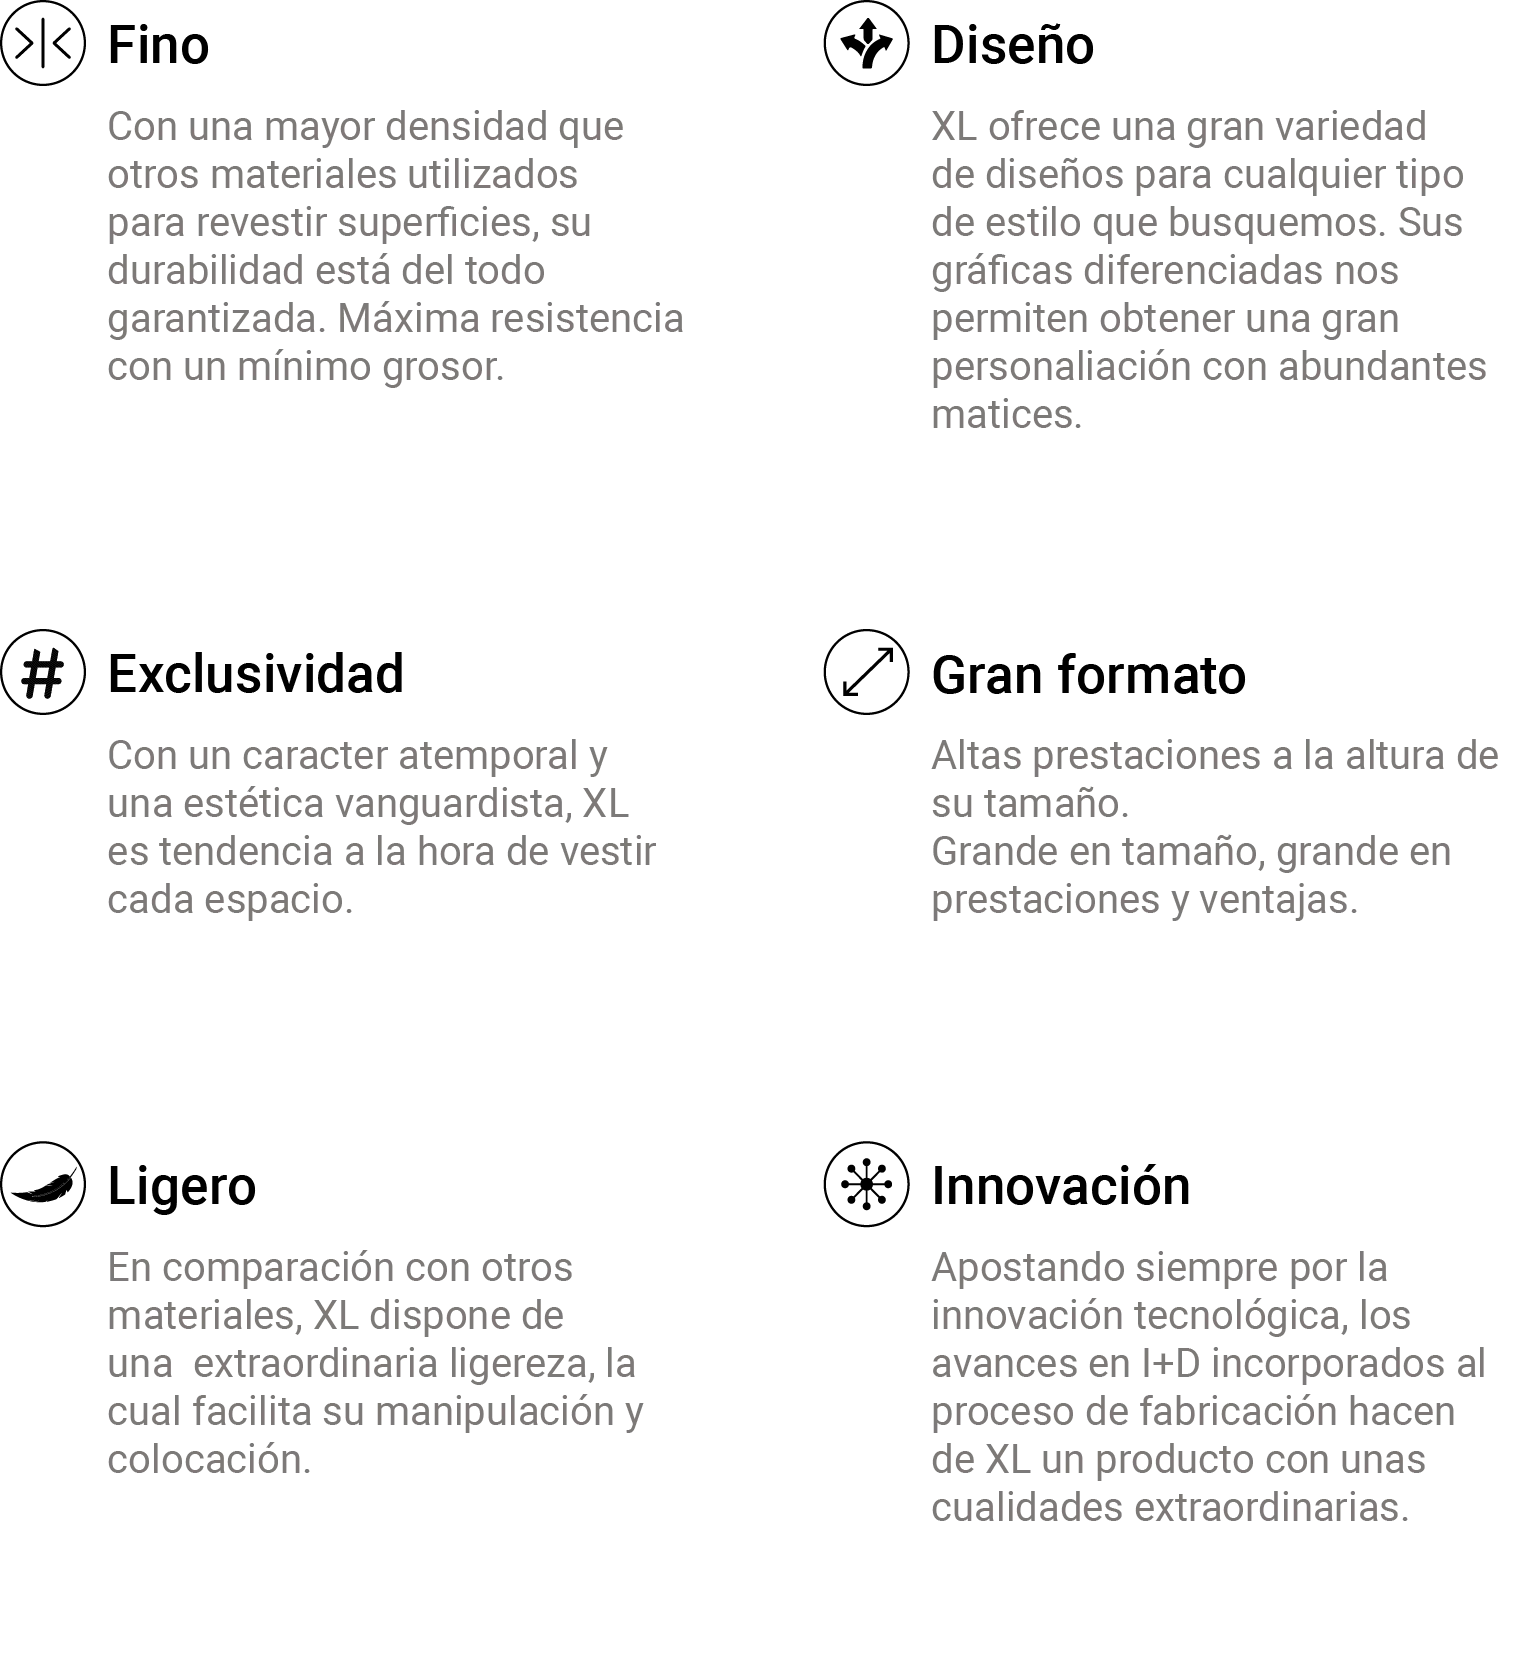
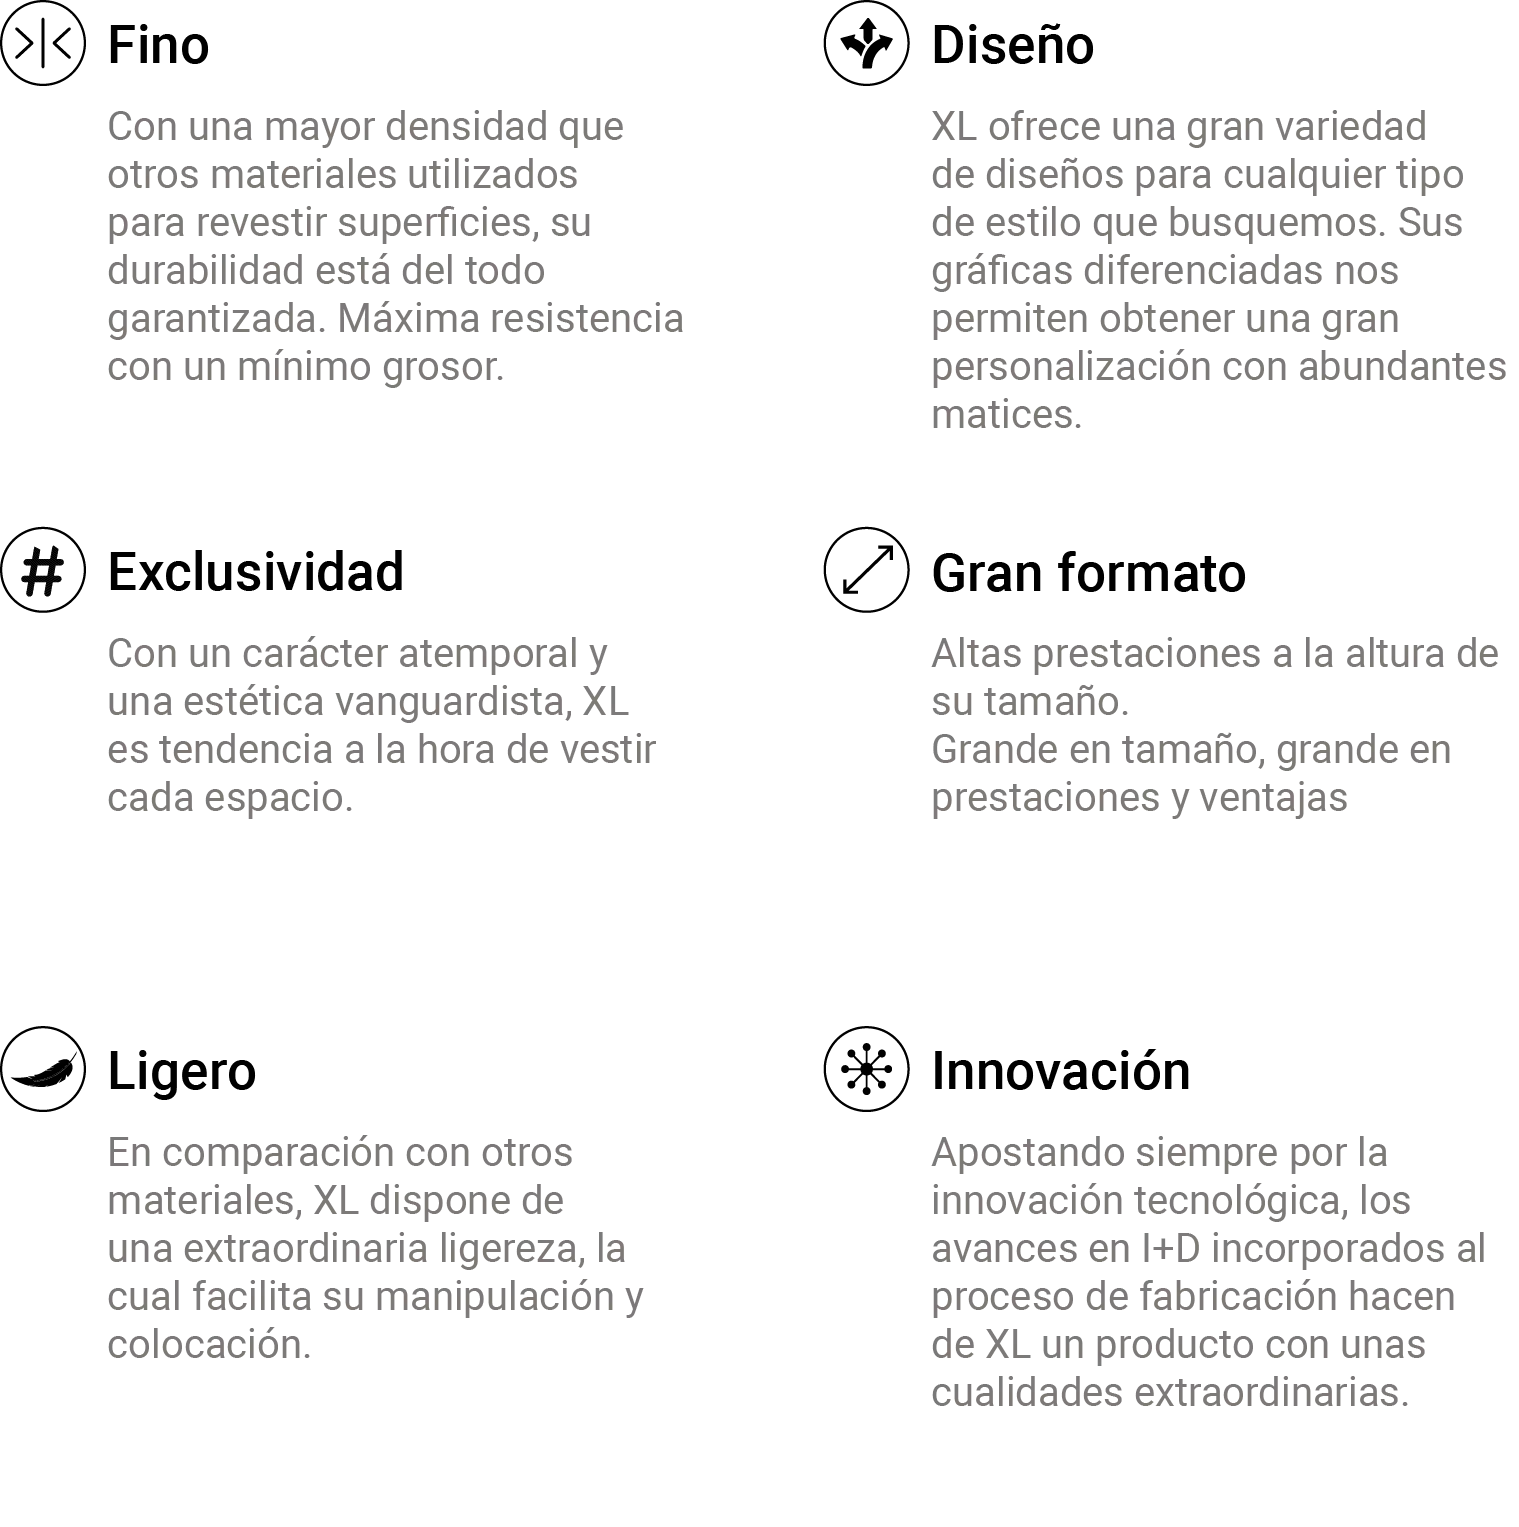
02/02 Cambios orto y tamaño letra

diff --git a/src/modules/04_MaterialSection/Data.jsx b/src/modules/04_MaterialSection/Data.jsx
@@ -1,9 +1,9 @@
 export const materialObj = {
-  id: 'materiales',
-  headLine: 'cuadro comparativo entre materiales //',
+  id: "materiales",
+  headLine: "Cuadro comparativo entre materiales //",
   description:
-    'La alta compactación de las partículas sinterizadas da lugar a una superficie libre de poros y, por lo tanto, sin posibilidad de puntos débiles. Todo esto se traduce en grandes beneficios para cualquier tipo de superficies tanto de interior como de exterior en nuestros hogares.',
-  img: require('../../assets/images/comparativa.webp'),
-  img2: require('../../assets/images/foto_cuadro_comparativo.webp'),
-  alt: 'test',
-}
+    "La alta compactación de las partículas sinterizadas da lugar a una superficie libre de poros y, por lo tanto, sin posibilidad de puntos débiles. Todo esto se traduce en grandes beneficios para cualquier tipo de superficies tanto de interior como de exterior en nuestros hogares.",
+  img: require("../../assets/images/comparativa.webp"),
+  img2: require("../../assets/images/foto_cuadro_comparativo.webp"),
+  alt: "test",
+};

diff --git a/src/modules/02_InfoSection/Data.jsx b/src/modules/02_InfoSection/Data.jsx
@@ -1,7 +1,7 @@
 export const homeObj = {
   id: "about",
   headLine:
-    "superficies con las más altas expectativas en arquitectura y diseño",
+    "Superficies con las más altas expectativas en arquitectura y diseño",
   description:
     "XL es un innovador producto de masa sintetizada fabricado con materias primas naturales que ofrece una propiedades mecánicas y estéticas superiores a cualquier material de recubrimiento convencional el cual surge para dar respuesta a las nuevas necesidades de los profesionales de la arquitectura y la decoración de interiores.",
   img: require("../../assets/images/foto_superficies.webp"),

diff --git a/src/modules/05_VentajasSection/Data.jsx b/src/modules/05_VentajasSection/Data.jsx
@@ -1,8 +1,8 @@
 export const ventajasObj = {
-  id: 'ventajas',
-  headLine: 'ventajas //',
-  img: require('../../assets/images/foto_cuadro_comparativo.webp'),
-  img2: require('../../assets/images/ventajas_texto.webp'),
+  id: "ventajas",
+  headLine: "Ventajas //",
+  img: require("../../assets/images/foto_cuadro_comparativo.webp"),
+  img2: require("../../assets/images/ventajas_texto.webp"),
   //img3: require('../../assets/images/xl-8.webp'),
-  alt: 'test',
-}
+  alt: "test",
+};

diff --git a/src/modules/07_AcabadoSection/Data.jsx b/src/modules/07_AcabadoSection/Data.jsx
@@ -1,6 +1,6 @@
 export const acabadoObj = {
   id: "acabados",
-  headLine: "acabados //",
+  headLine: "Acabados //",
   description:
     "Acabados que reproducen la piedra natural, tecnología 3d·fit® que otorga textura en corcondancia con la gráfica, alto brillo que aporta profundidad y elegancia, acabado natural un efecto más fiel al material original o superficies de acabado sedoso mate, altamente resistentes.",
   description2: "Click para ver los diferentes acabados",

diff --git a/src/modules/03_CaracteristicasSection/Data.jsx b/src/modules/03_CaracteristicasSection/Data.jsx
@@ -1,6 +1,6 @@
 export const caraObj = {
   id: "caracteristicas",
-  headLine: "características  físico-mecánicas de XL //",
+  headLine: "Características  físico-mecánicas de XL //",
   description:
     "Sus características  físico-mecánicas, permiten fabricar superficies con este material que cuentan con un sinfín de aplicaciones horizontales y decorativas. ",
   img: require("../../assets/images/foto _iconos.webp"),

diff --git a/src/modules/09_Descargas/Data.jsx b/src/modules/09_Descargas/Data.jsx
@@ -1,6 +1,6 @@
 export const descargasObj = {
   id: "coleccion",
-  headLine: "descargas de catálogo //",
+  headLine: "Descargas de catálogo //",
   description:
     "Sorprendentes tanto a la vista como al tacto, nos permitirán construir cualquier espacio de nuestro hogar. Descubre las infinitas ideas y posibilidades  decorativas de nuestras colecciones XL.",
   description2: "ver nuestras colecciones //",

diff --git a/src/modules/08_ColecSection/Data.jsx b/src/modules/08_ColecSection/Data.jsx
@@ -1,6 +1,6 @@
 export const colecObj = {
   id: "coleccion",
-  headLine: "nuestras colecciones //",
+  headLine: "Nuestras colecciones //",
   description:
     "Sorprendentes tanto a la vista como al tacto, nos permitirán construir cualquier espacio de nuestro hogar. Descubre las infinitas ideas y posibilidades  decorativas de nuestras colecciones XL.",
   description2: "ver nuestras colecciones //",

diff --git a/src/modules/06_FormatoSection/Data.jsx b/src/modules/06_FormatoSection/Data.jsx
@@ -1,6 +1,6 @@
 export const formatoObj = {
   id: 'formato',
-  headLine: 'espesores y formatos //',
+  headLine: 'Espesores y formatos //',
   description:
     'XL se fabrica en piezas desde 1600 x 3200  hasta 1620 x 3240 mm en espesores de 12 y 20 mm.',
   img: require('../../assets/images/espesores.webp'),
